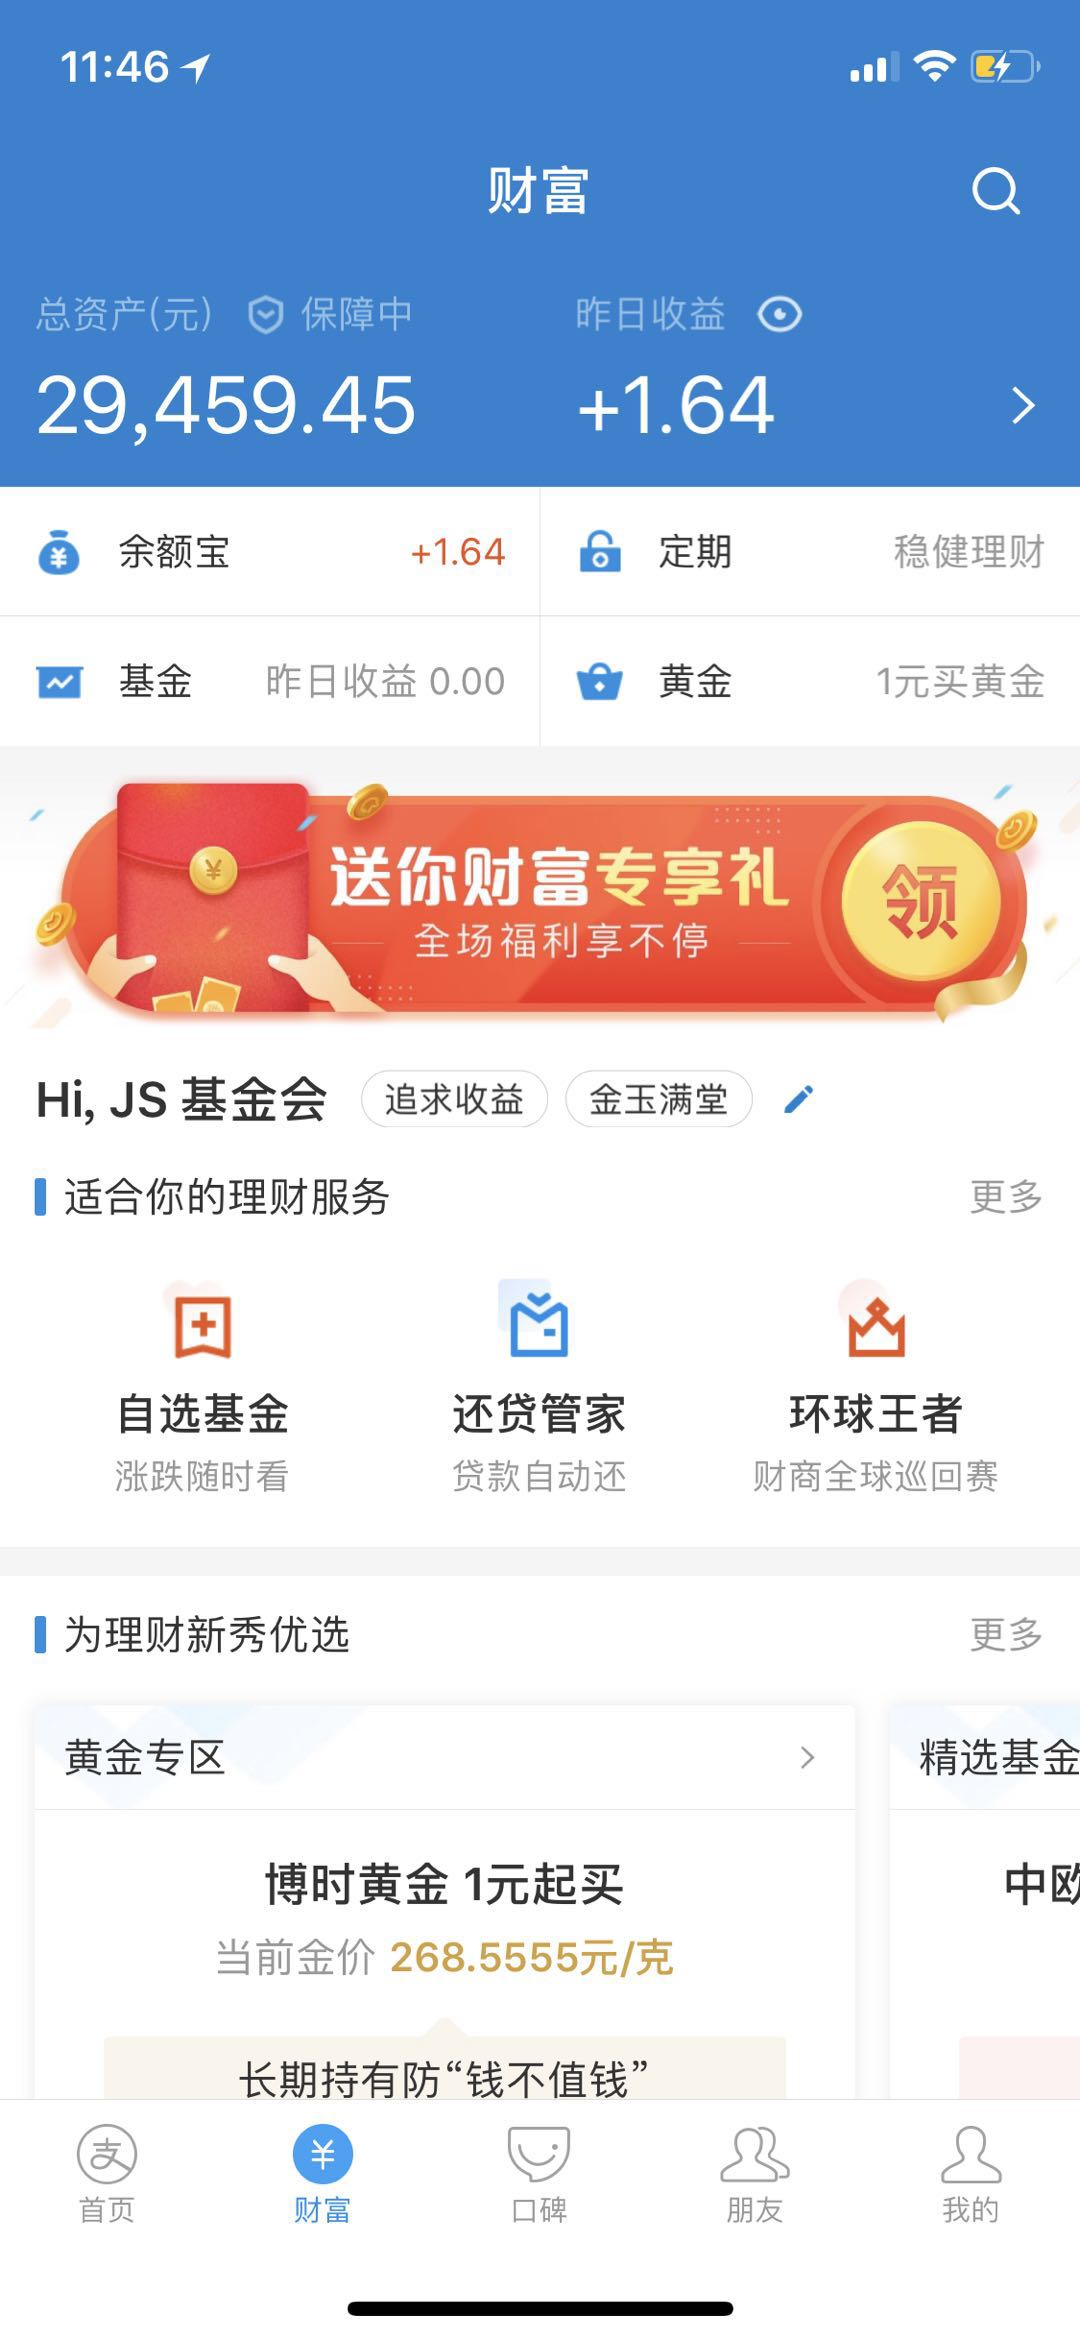
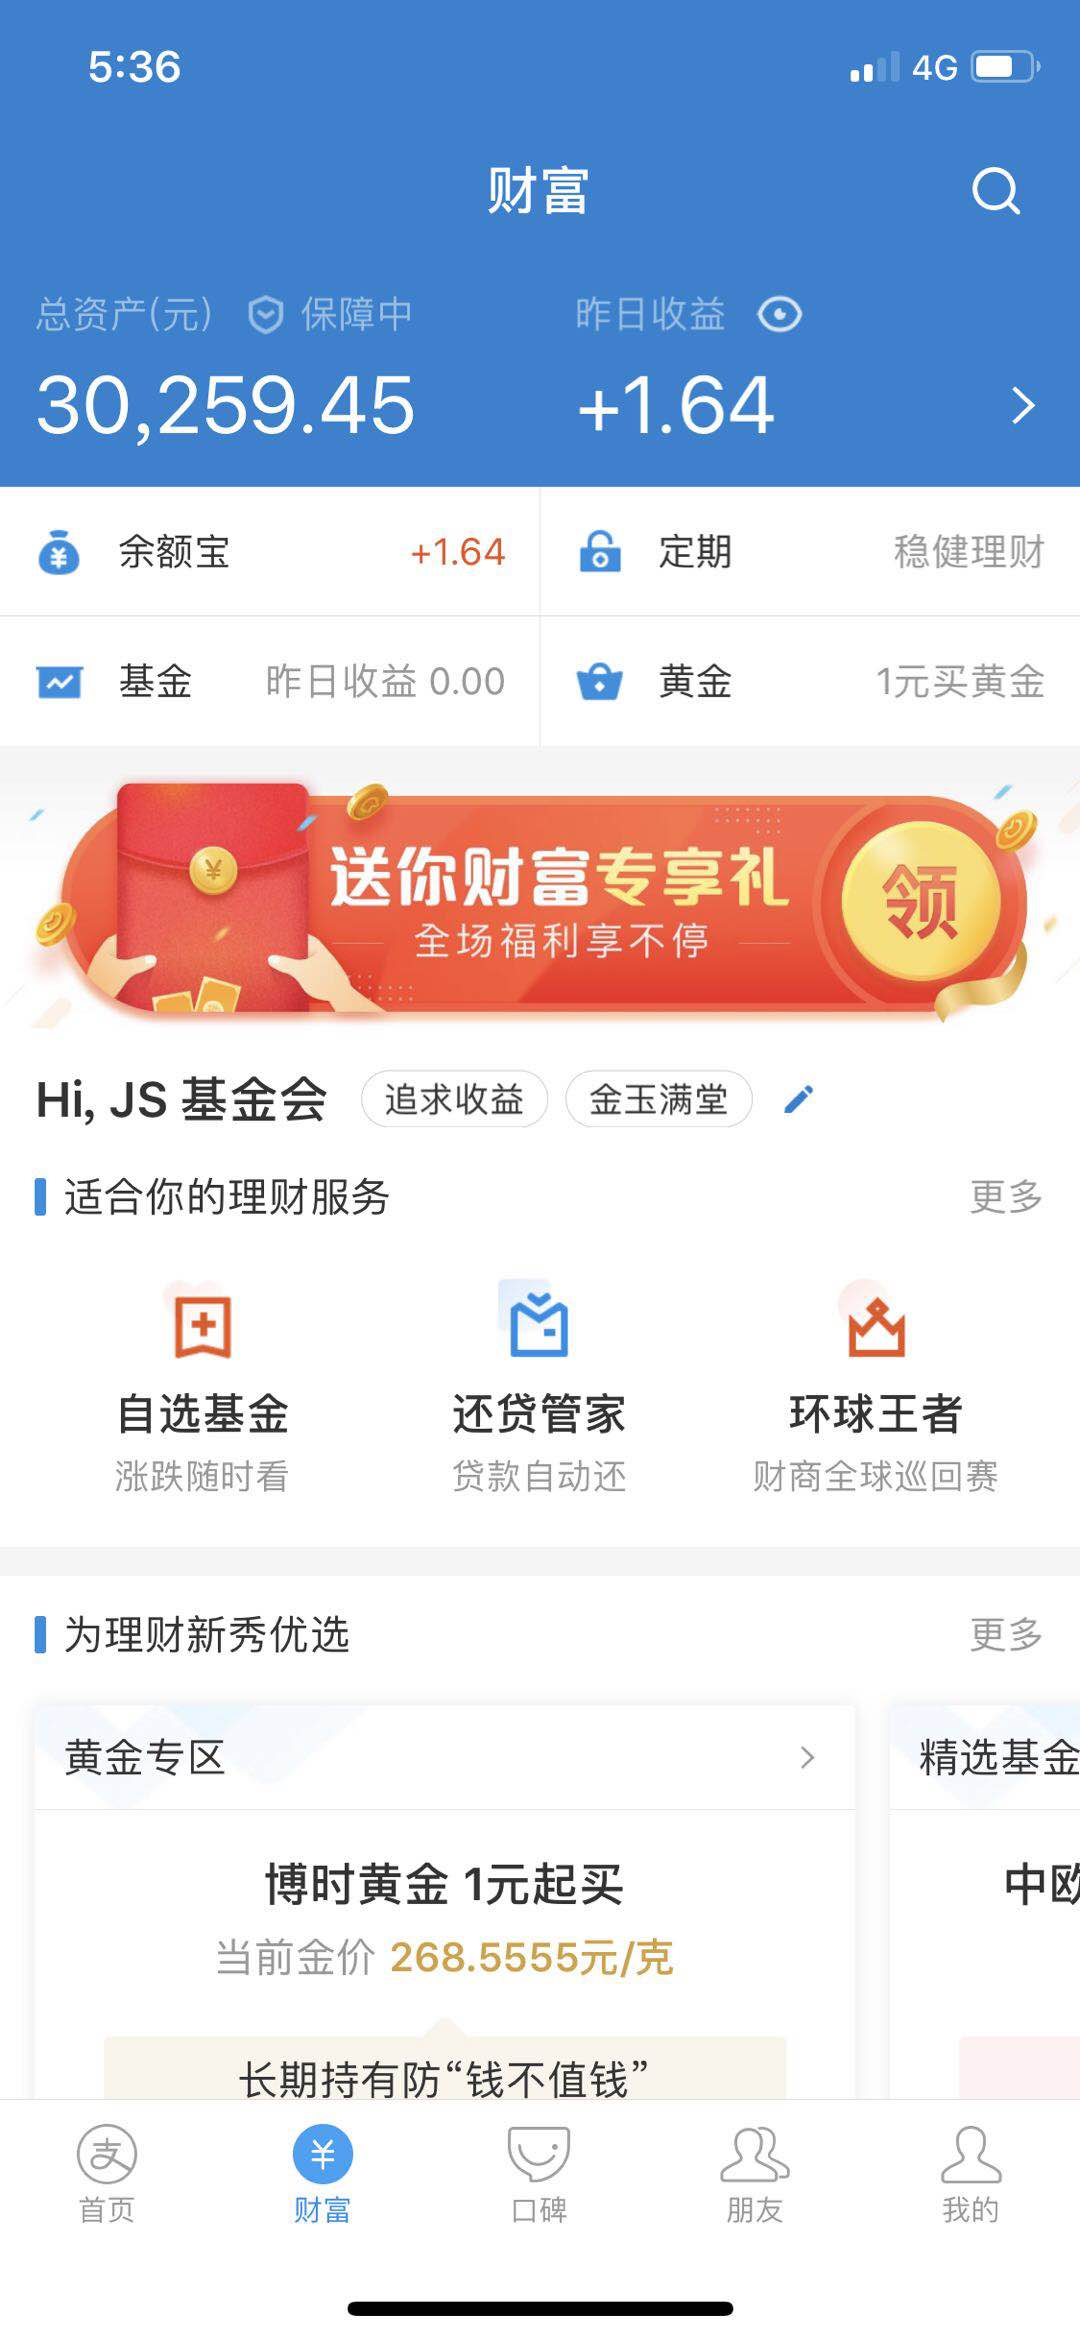
income: 20181112 Mesh-奇志科技 赞助 800 元

diff --git a/README.md b/README.md
@@ -1,6 +1,6 @@
 #  NodeParty 开源基金会运作草案 
 
-![](https://img.shields.io/badge/余额-29459.45%20元-green.svg) ![](https://img.shields.io/badge/赞助笔数-39%20笔-green.svg) ![](https://img.shields.io/badge/待入账-0.00%20元-blue.svg)
+![](https://img.shields.io/badge/余额-30259.45%20元-green.svg) ![](https://img.shields.io/badge/赞助笔数-40%20笔-green.svg) ![](https://img.shields.io/badge/待入账-0.00%20元-blue.svg)
 
 ## 组织介绍
 
@@ -137,6 +137,7 @@ Commit Message 需按照此格式：
 | @天宇 | 102.40 | 2018-06-11 | 个人赞助 | [#49](https://github.com/Hangzhou-Node-Party/JS-OpenSource-Foundation/issues/49) |
 | @shitiven | 256.00 | 2018-06-12 | 个人赞助 | [#50](https://github.com/Hangzhou-Node-Party/JS-OpenSource-Foundation/issues/50) |
 | @100offer | 3000.00 | 2018-06-12 | 企业赞助 | [#51](https://github.com/Hangzhou-Node-Party/JS-OpenSource-Foundation/issues/51) |
+| @lbj96347 | 800.00 | 2018-06-12 | 组织赞助 | [#52](https://github.com/Hangzhou-Node-Party/JS-OpenSource-Foundation/issues/52) |
 
 感谢以下企业的赞助：
 
@@ -185,7 +186,7 @@ Commit Message 需按照此格式：
 <!-- money start -->
 | 款项 | 金额 |
 |------|------|
-| **总额** | 29459.45 元 |
+| **总额** | 30259.45 元 |
 | **待入账** | 0.00 元 |
 <!-- money end -->
 

diff --git a/INCOMING.md b/INCOMING.md
@@ -41,3 +41,4 @@
 | @天宇 | 102.40 | 2018-06-11 | 个人赞助 | [#49](https://github.com/Hangzhou-Node-Party/JS-OpenSource-Foundation/issues/49) |
 | @shitiven | 256.00 | 2018-06-12 | 个人赞助 | [#49](https://github.com/Hangzhou-Node-Party/JS-OpenSource-Foundation/issues/50) |
 | @100offer | 3000.00 | 2018-06-12 | 企业赞助 | [#51](https://github.com/Hangzhou-Node-Party/JS-OpenSource-Foundation/issues/51) |
+| @lbj96347 | 800.00 | 2018-06-12 | 组织赞助 | [#52](https://github.com/Hangzhou-Node-Party/JS-OpenSource-Foundation/issues/52) |
